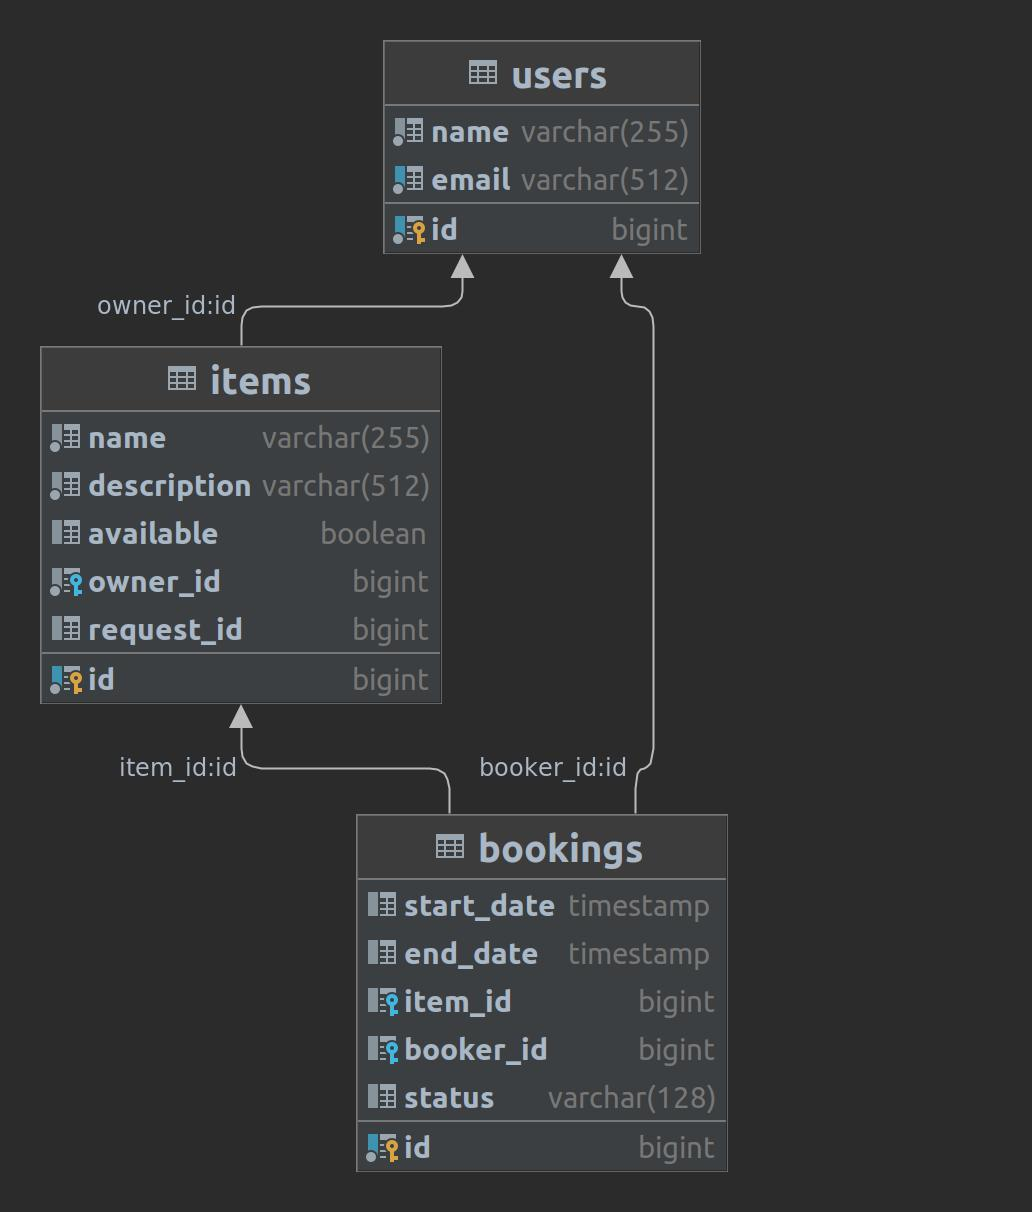
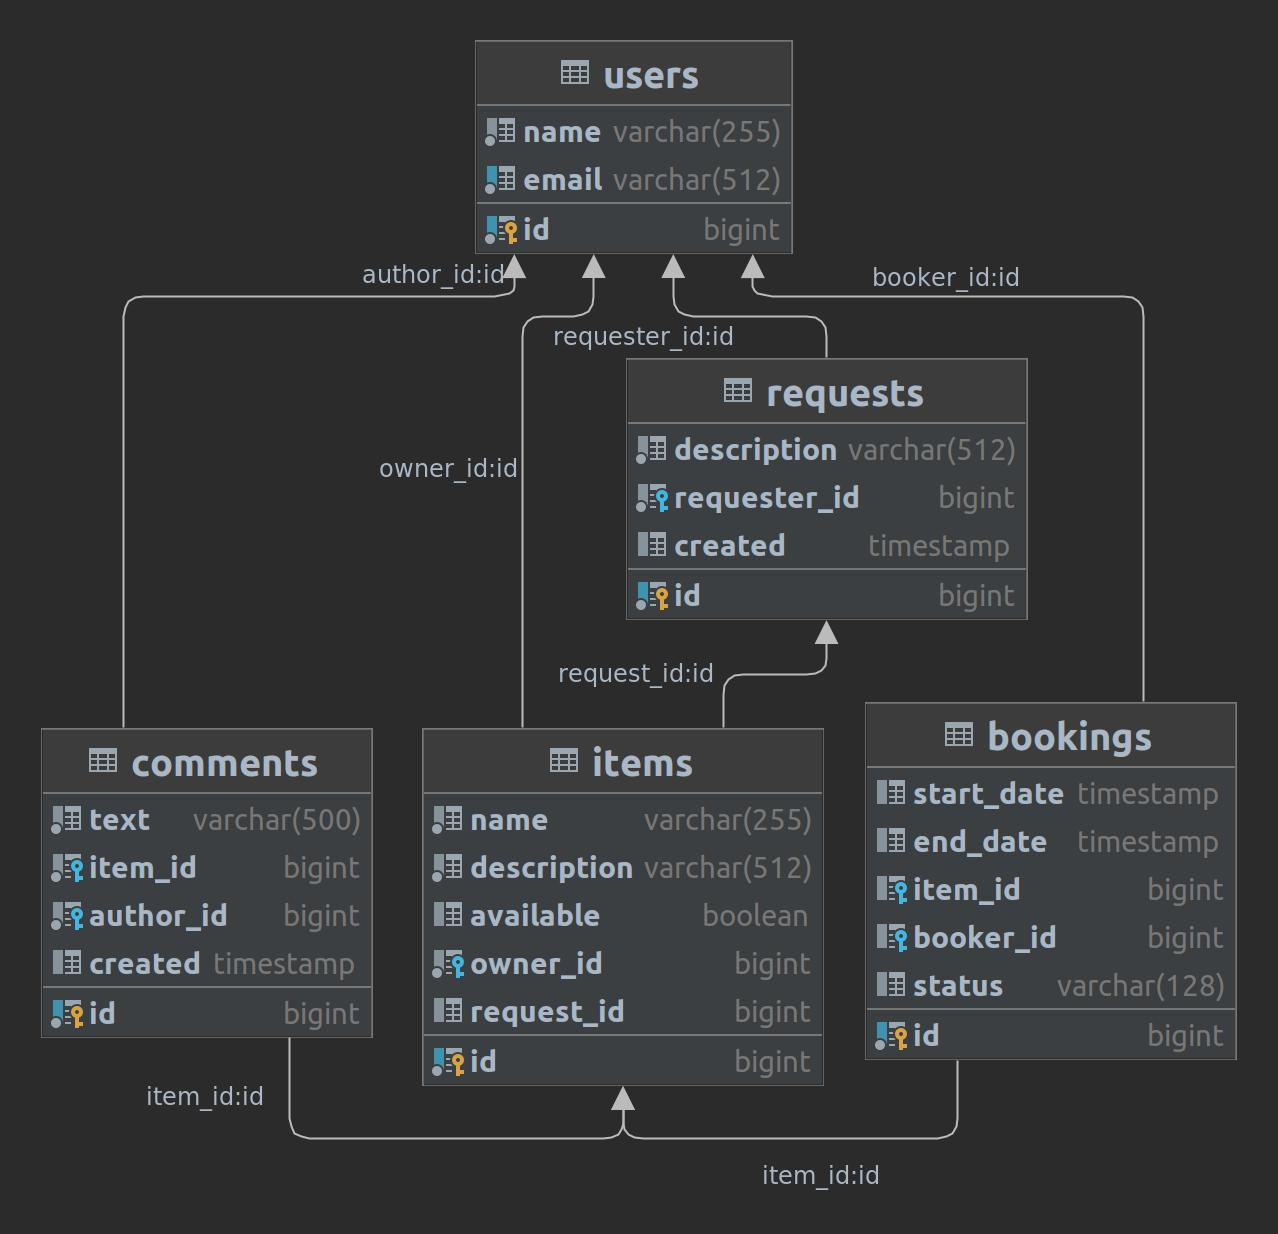
style: обновлён README.md

diff --git a/README.md b/README.md
@@ -1,5 +1,14 @@
-# Java-shareit
-Template repository for Shareit project.
+## Shareit
+Сервис для размещения и поиска вещей, для дальнейшей аренды.
+
+### Технологии: 
+Java 11 на базе Spring Boot. В разработке использованы REST API, PostgreSQL, Hibernate ORM, Lombok, Docker
+
+### Описание:
+Владелец добавляет вещь, указывает имя и описание. Пользователи могут найти вещь по поиску и забронировать её на нужный 
+промежуток времени. Если такой вещи не найдено - возможно оставить запрос, чтобы владельцы могли добавить нужную вещь.
+Если вещь найдена, оставляется запрос на бронирование. Владелец должен его подтвердить. 
+Также после пользования вещью арендатор имеет возможность оставить отзыв.
 
 
 ### Diagram:
